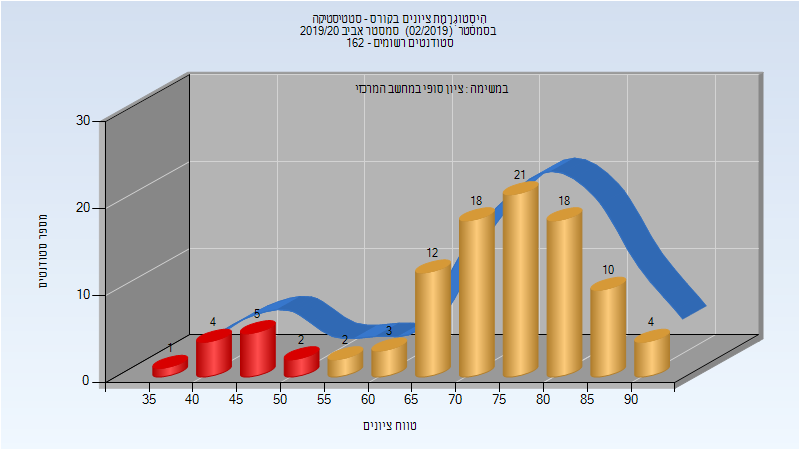
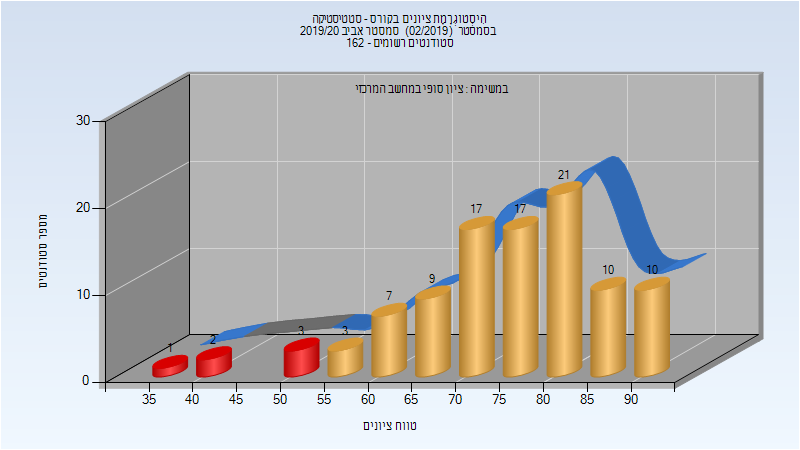
Deploy michael-maltsev/technion-histograms to github.com/michael-maltsev/technion-histograms.git:gh-pages

Changed region(s): [[0.2188, 0.56, 0.5938, 0.84], [0.5625, 0.3422, 0.8125, 0.56], [0.7812, 0.56, 0.9062, 0.7778]]

diff --git a/014603/index.html b/014603/index.html
@@ -387,5 +387,80 @@
 </tr>
 </tbody>
 </table>
+<h2>אביב 2020</h2>
+<table>
+<thead>
+<tr>
+<th>איש סגל</th>
+<th>תפקיד</th>
+</tr>
+</thead>
+<tbody>
+<tr>
+<td>הון-שניר שלומית</td>
+<td>מרצה - אחראי מקצוע</td>
+</tr>
+<tr>
+<td>שביט שרית</td>
+<td>סגל מנהלי - עם הרשאות מרצה אחראי</td>
+</tr>
+<tr>
+<td>צאצאשוילי תמי</td>
+<td>סגל מנהלי - עם הרשאות מרצה אחראי</td>
+</tr>
+</tbody>
+</table>
+<h3>סופי מועד א'</h3>
+<p><img src="201902/Final_A.png" alt="201902 Final_A" /></p>
+<table>
+<thead>
+<tr>
+<th>סטודנטים</th>
+<th>עברו/נכשלו</th>
+<th>אחוז עוברים</th>
+<th>ציון מינימלי</th>
+<th>ציון מקסימלי</th>
+<th>ממוצע</th>
+<th>חציון</th>
+</tr>
+</thead>
+<tbody>
+<tr>
+<td>197</td>
+<td>181/16</td>
+<td>92</td>
+<td>26.875</td>
+<td>100</td>
+<td>76.04</td>
+<td>77.5</td>
+</tr>
+</tbody>
+</table>
+<h3>סופי</h3>
+<p><img src="201902/Finals.png" alt="201902 Finals" /></p>
+<table>
+<thead>
+<tr>
+<th>סטודנטים</th>
+<th>עברו/נכשלו</th>
+<th>אחוז עוברים</th>
+<th>ציון מינימלי</th>
+<th>ציון מקסימלי</th>
+<th>ממוצע</th>
+<th>חציון</th>
+</tr>
+</thead>
+<tbody>
+<tr>
+<td>198</td>
+<td>183/15</td>
+<td>92</td>
+<td>27</td>
+<td>100</td>
+<td>76.172</td>
+<td>78</td>
+</tr>
+</tbody>
+</table>
   </body>
 </html>

diff --git a/014003/index.html b/014003/index.html
@@ -1124,12 +1124,12 @@
 <tbody>
 <tr>
 <td>100</td>
-<td>88/12</td>
-<td>88</td>
-<td>38</td>
-<td>90</td>
-<td>72.52</td>
-<td>75</td>
+<td>94/6</td>
+<td>94</td>
+<td>39</td>
+<td>93</td>
+<td>75.49</td>
+<td>77</td>
 </tr>
 </tbody>
 </table>

diff --git a/014603/README.md b/014603/README.md
@@ -118,3 +118,27 @@
 | ---- | ---- | ---- | ---- | ---- | ---- | ---- |
 | 236 | 206/30 | 87 | 6 | 100 | 69.678 | 70 |
 
+## אביב 2020
+
+| איש סגל | תפקיד |
+| ---- | ---- |
+| הון-שניר שלומית | מרצה - אחראי מקצוע |
+| שביט שרית | סגל מנהלי - עם הרשאות מרצה אחראי |
+| צאצאשוילי תמי | סגל מנהלי - עם הרשאות מרצה אחראי |
+
+### סופי מועד א'
+
+![201902 Final_A](201902/Final_A.png)
+
+| סטודנטים | עברו/נכשלו | אחוז עוברים | ציון מינימלי | ציון מקסימלי | ממוצע | חציון |
+| ---- | ---- | ---- | ---- | ---- | ---- | ---- |
+| 197 | 181/16 | 92 | 26.875 | 100 | 76.04 | 77.5 |
+
+### סופי
+
+![201902 Finals](201902/Finals.png)
+
+| סטודנטים | עברו/נכשלו | אחוז עוברים | ציון מינימלי | ציון מקסימלי | ממוצע | חציון |
+| ---- | ---- | ---- | ---- | ---- | ---- | ---- |
+| 198 | 183/15 | 92 | 27 | 100 | 76.172 | 78 |
+

diff --git a/014003/README.md b/014003/README.md
@@ -351,5 +351,5 @@
 
 | סטודנטים | עברו/נכשלו | אחוז עוברים | ציון מינימלי | ציון מקסימלי | ממוצע | חציון |
 | ---- | ---- | ---- | ---- | ---- | ---- | ---- |
-| 100 | 88/12 | 88 | 38 | 90 | 72.52 | 75 |
+| 100 | 94/6 | 94 | 39 | 93 | 75.49 | 77 |
 
